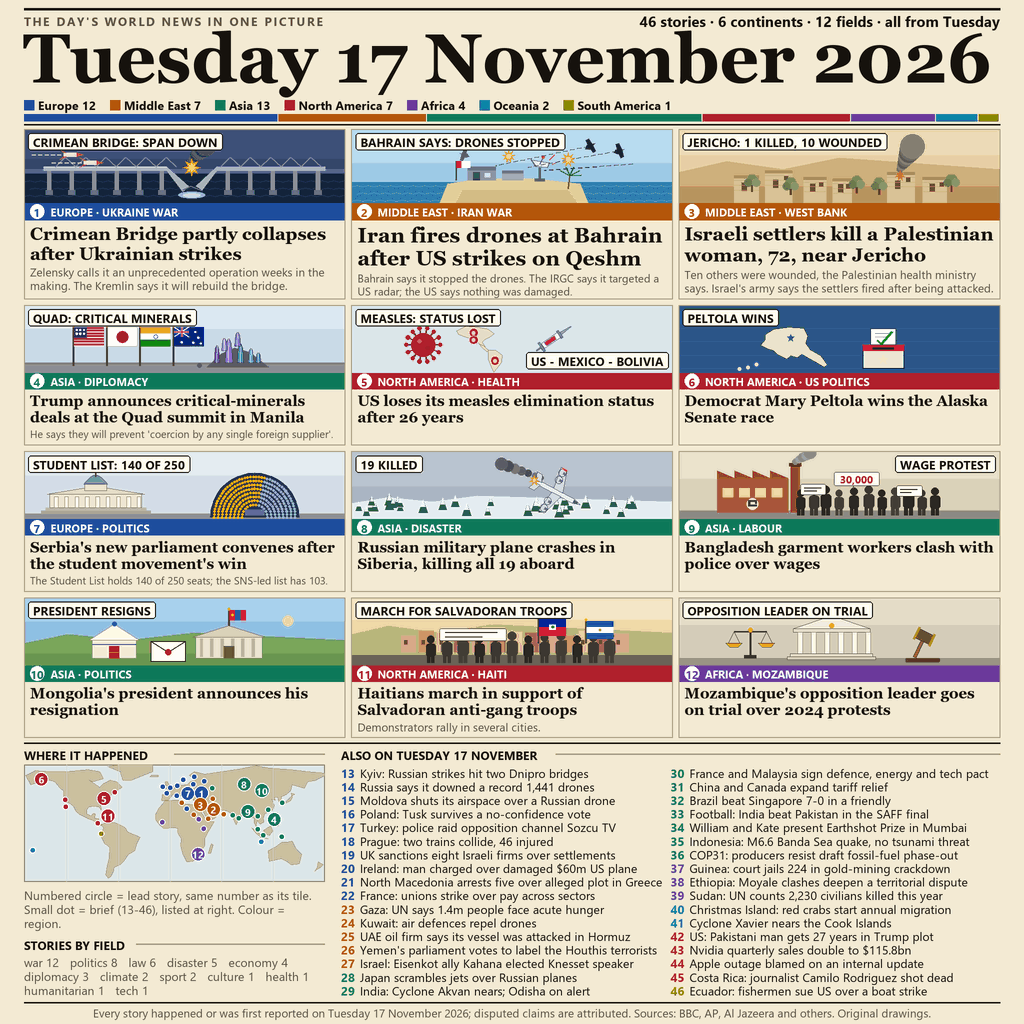
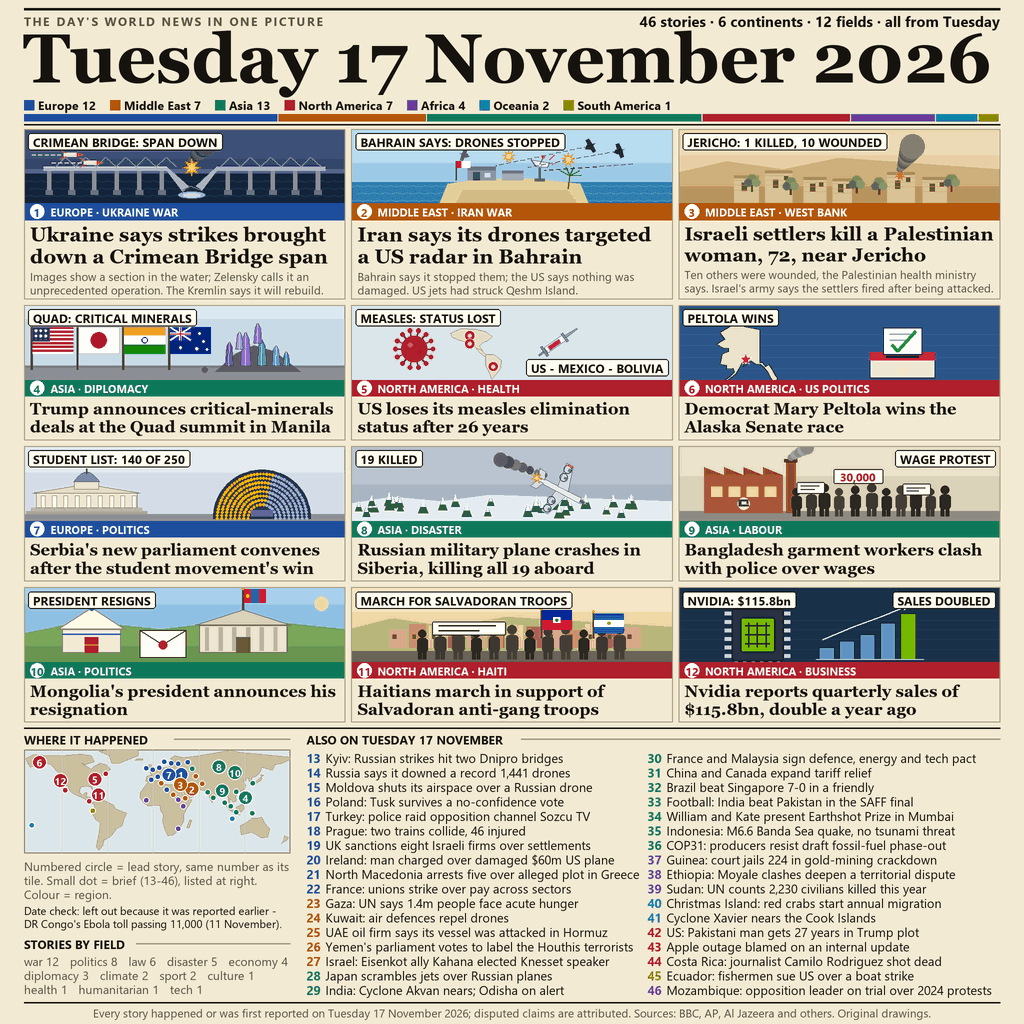
feat(image): add Nvidia chip scene, redraw Alaska map, use dead tile space, add date-check line

Changed region(s): [[0.0, 0.2188, 1.0, 0.9688]]

diff --git a/gen_news.py b/gen_news.py
@@ -324,8 +324,8 @@ def sc_quad(c, W_):
     xs = [cx - 150, cx - 105, cx - 60, cx - 15]
     fl = [f_usa, f_jp, f_in, f_au]
     for x, f in zip(xs, fl):
-        pole(c, x, 36, 90)
-        f(c, x + 1, 38, 40, 26)
+        pole(c, x, 46, 90)
+        f(c, x + 1, 48, 40, 26)
     # ore pile
     cols = ["#6a4aa8", "#8d6ad0", "#4a8fb0", "#5fb1c9", "#a78be0"]
     base = [(cx + 30, 92), (cx + 50, 74), (cx + 68, 66), (cx + 88, 72), (cx + 114, 92)]
@@ -378,28 +378,37 @@ def sc_measles(c, W_):
         c.poly(rot([(sx + x, sy + y) for x, y in pts], sx, sy, -35), col, "#4a5360", 0.6)
 
 
+AK_LL = [(-141, 69.6), (-145, 70.0), (-150, 70.4), (-156.6, 71.3), (-161, 70.3), (-166, 68.8), (-163, 67.0), (-168, 65.6),
+         (-164, 64.5), (-161, 64.4), (-161, 63.4), (-165, 62.5), (-165.5, 61), (-166, 60), (-162, 59.5), (-162, 58.6), (-158, 58.7),
+         (-157, 57.6), (-160, 56.3), (-164.5, 54.7), (-160, 55.7), (-156, 57.2), (-154, 58.5), (-152.5, 60), (-150, 61.2),
+         (-151.5, 59.3), (-149, 60), (-147, 60.8), (-144, 60), (-141, 59.9), (-139, 59.2), (-136.5, 57.5), (-134.5, 55.8),
+         (-133, 54.7), (-131.2, 54.7), (-130, 55.9), (-131.6, 56.8), (-133.6, 58.4), (-135.5, 59.7), (-137.5, 59.1),
+         (-139.5, 60.3), (-141, 60.3)]
+
+
 def sc_alaska(c, W_):
     cx = W_ / 2
-    c.rect(0, 0, W_, 100, "#274a7a")
     c.rect(0, 0, W_, 100, "#2c5588")
-    for r in range(0, 4):
-        c.line([(0, 40 + r * 18), (W_, 40 + r * 18)], "#3a669c", 0.5)
-    ak = [(0, 10), (8, 4), (22, 2), (36, 3), (40, 12), (38, 20), (42, 27), (52, 34), (58, 44), (55, 47), (48, 42), (40, 36), (34, 32), (30, 36), (24, 34), (20, 38), (12, 33), (8, 28), (2, 26), (-4, 22), (0, 16)]
-    ox, oy = cx - 100, 36
-    c.poly([(ox + x * 1.45, oy + y * 1.2) for x, y in ak], "#ece3c6", "#14243b", 1)
-    for (x, y) in [(-8, 44), (-16, 47), (-24, 49)]:
-        c.circ(ox + x * 1.45, oy + y * 1.2, 2.4, "#ece3c6")
-    c.poly(star(ox + 24 * 1.45, oy + 14 * 1.2, 5, 2.2, 5), "#2c5588")
-    # ballot box
-    bx = cx + 60
-    c.rect(bx - 28, 62, bx + 28, 94, "#eee8d6", "#10203a", 1.2)
-    c.rect(bx - 28, 62, bx + 28, 70, "#c92a35")
-    c.rect(bx - 14, 66, bx + 14, 68, "#10203a")
-    c.rect(bx - 17, 40, bx + 17, 62, "#ffffff", "#10203a", 1)
-    c.line([(bx - 11, 46), (bx + 11, 46)], "#9aa3b2", 1.2)
-    c.line([(bx - 11, 51), (bx + 5, 51)], "#9aa3b2", 1.2)
-    c.line([(bx - 8, 56), (bx - 3, 61), (bx + 12, 44)], "#14933e", 3.2)
-    c.poly(star(bx, 82, 7, 3, 5), "#f3e9c3")
+    for r in range(0, 5):
+        c.line([(0, 44 + r * 14), (W_, 44 + r * 14)], "#3a669c", 0.6)
+    sc = 4.3
+    ox = cx - 150
+    T = lambda lo, la: (ox + (lo + 168) * 0.46 * sc, 31 + (71.4 - la) * sc)
+    c.poly([T(lo, la) for lo, la in AK_LL], "#ece3c6", "#14243b", 1.1)
+    for lo, la in [(-170, 52.5), (-174, 52.2), (-178, 51.8)]:
+        c.circ(*T(lo + 3, la + 0.2), 1.6, "#ece3c6")
+    ax, ay = T(-149.9, 61.2)
+    c.poly(star(ax, ay, 7.5, 3.2, 5), "#c92a35", "#ffffff", 0.9)
+    # ballot box with a ballot and a check mark
+    bx = cx + 78
+    c.rect(bx - 40, 66, bx + 40, 98, "#eee8d6", "#10203a", 1.4)
+    c.rect(bx - 40, 66, bx + 40, 76, "#c92a35")
+    c.rect(bx - 20, 70, bx + 20, 72.5, "#10203a")
+    c.rect(bx - 24, 36, bx + 24, 69, "#ffffff", "#10203a", 1.2)
+    c.line([(bx - 16, 44), (bx + 16, 44)], "#9aa3b2", 1.6)
+    c.line([(bx - 16, 51), (bx + 6, 51)], "#9aa3b2", 1.6)
+    c.line([(bx - 13, 57), (bx - 6, 64.5), (bx + 16, 40)], "#14933e", 4.4)
+    c.poly(star(bx, 88, 8, 3.4, 5), "#f3e9c3")
 
 
 def sc_serbia(c, W_):
@@ -583,38 +592,37 @@ def sc_haiti(c, W_):
     f_sv(c, cx + 101, 40, 36, 24)
 
 
-def sc_court(c, W_):
+def sc_nvidia(c, W_):
     cx = W_ / 2
-    c.rect(0, 0, W_, 100, "#d5cdbb")
-    c.rect(0, 0, W_, 45, "#e3dccb")
-    c.rect(0, 90, W_, 100, "#9a9484")
-    bx = cx - 10
-    # courthouse
-    c.poly([(bx - 52, 50), (bx, 33), (bx + 52, 50)], "#f1ece0", "#5a5546", 1)
-    c.rect(bx - 52, 50, bx + 52, 55, "#e4ddcc", "#5a5546", 0.8)
+    c.rect(0, 0, W_, 100, "#15293d")
+    c.rect(0, 0, W_, 100, "#183148")
+    for r in range(5):
+        c.line([(0, 48 + r * 12), (W_, 48 + r * 12)], "#24435f", 0.6)
+    # chip (left): package, pins, green die
+    chx, chy, hs = cx - 100, 66, 32
     for i in range(6):
-        x = bx - 46 + i * 18.4
-        c.rect(x, 55, x + 7, 84, "#f7f3e8", "#8a8470", 0.6)
-    c.rect(bx - 56, 84, bx + 56, 88, "#e4ddcc", "#5a5546", 0.8)
-    c.rect(bx - 60, 88, bx + 60, 92, "#d7d0be", "#5a5546", 0.8)
-    c.circ(bx, 46, 3.5, "#d9b43a")
-    # scales (left)
-    sx = cx - 120
-    c.rect(sx - 1, 52, sx + 1, 86, "#3a342a")
-    c.rect(sx - 8, 86, sx + 8, 90, "#3a342a")
-    c.line([(sx - 22, 54), (sx + 22, 54)], "#3a342a", 2)
-    for dx in (-22, 22):
-        c.line([(sx + dx, 54), (sx + dx - 8, 70)], "#3a342a", 0.8)
-        c.line([(sx + dx, 54), (sx + dx + 8, 70)], "#3a342a", 0.8)
-        c.poly([(sx + dx - 11, 70), (sx + dx + 11, 70), (sx + dx + 6, 75), (sx + dx - 6, 75)], "#d9b43a", "#3a342a", 0.8)
-    c.circ(sx, 52, 3, "#d9b43a")
-    # gavel (right)
-    gx, gy = cx + 112, 78
-    c.rrect(gx - 22, 90, gx + 24, 95, 1.5, "#5e3d22")
-    c.poly(rot([(gx - 14, gy - 24), (gx + 6, gy - 24), (gx + 6, gy - 10), (gx - 14, gy - 10)], gx, gy, 25), "#7a4e2a", "#3a2412", 0.8)
-    c.poly(rot([(gx - 6, gy - 10), (gx - 2, gy - 10), (gx - 2, gy + 14), (gx - 6, gy + 14)], gx, gy, 25), "#9a6a3a", "#3a2412", 0.8)
-    c.poly(rot([(gx - 17, gy - 26), (gx - 14, gy - 26), (gx - 14, gy - 8), (gx - 17, gy - 8)], gx, gy, 25), "#b8892e")
-    c.poly(rot([(gx + 6, gy - 26), (gx + 9, gy - 26), (gx + 9, gy - 8), (gx + 6, gy - 8)], gx, gy, 25), "#b8892e")
+        o = -26 + i * 10.4
+        c.rect(chx + o - 2, chy - hs - 8, chx + o + 2, chy - hs, "#c9ced6")
+        c.rect(chx + o - 2, chy + hs, chx + o + 2, chy + hs + 8, "#c9ced6")
+        c.rect(chx - hs - 8, chy + o - 2, chx - hs, chy + o + 2, "#c9ced6")
+        c.rect(chx + hs, chy + o - 2, chx + hs + 8, chy + o + 2, "#c9ced6")
+    c.rrect(chx - hs, chy - hs, chx + hs, chy + hs, 4, "#2b3340", "#0c121a", 1.4)
+    c.rrect(chx - 21, chy - 21, chx + 21, chy + 21, 3, "#76b900", "#0c121a", 1.2)
+    for i in (-1, 0, 1):
+        c.line([(chx - 15, chy + i * 11), (chx + 15, chy + i * 11)], "#1d3a00", 1.8)
+        c.line([(chx + i * 11, chy - 15), (chx + i * 11, chy + 15)], "#1d3a00", 1.8)
+    # rising bars (right)
+    base = 96
+    hts = [14, 22, 30, 44, 56]
+    for i, h_ in enumerate(hts):
+        x0 = cx - 24 + i * 25
+        c.rect(x0, base - h_, x0 + 18, base, "#76b900" if i == 4 else "#5f93c4", "#0c121a", 0.9)
+    c.line([(cx - 20, base - 24), (cx + 18, base - 40), (cx + 52, base - 52), (cx + 86, base - 66)], "#ffffff", 1.8)
+    c.poly(rot([(cx + 92, base - 69), (cx + 78, base - 73), (cx + 80, base - 60)], cx + 86, base - 66, 0), "#ffffff")
+    c.line([(cx - 28, base), (cx + 104, base)], "#c9ced6", 1.4)
+
+
+ZOOM = {4: 1.25, 10: 1.2}
 
 
 # (scene fn, plate1, plate1 pos, plate2, plate2 pos)
@@ -630,7 +638,7 @@ SCENES = {
     9: (sc_bangladesh, "WAGE PROTEST", "tr", None, None),
     10: (sc_mongolia, "PRESIDENT RESIGNS", "tl", None, None),
     11: (sc_haiti, "MARCH FOR SALVADORAN TROOPS", "tl", None, None),
-    12: (sc_court, "OPPOSITION LEADER ON TRIAL", "tl", None, None),
+    12: (sc_nvidia, "NVIDIA: $115.8bn", "tl", "SALES DOUBLED", "tr"),
 }
 
 
@@ -650,9 +658,10 @@ def draw_plate(im, w, h, text, pos, px):
 def make_panel(story, w, h, k_plate_px):
     im = Image.new("RGB", (round(w * S), round(h * S)), "#ffffff")
     k = h / 92.0
-    c = Cv(im, k, 0, -8 * k)
+    z = ZOOM.get(story["id"], 1.0)
+    c = Cv(im, k * z, 0, h - 100 * k * z)
     fn, p1, pos1, p2, pos2 = SCENES[story["id"]]
-    fn(c, w / k)
+    fn(c, w / (k * z))
     draw_plate(im, w, h, p1, pos1, k_plate_px)
     if p2:
         draw_plate(im, w, h, p2, pos2, k_plate_px)
@@ -810,13 +819,12 @@ def render():
     put("footer", foot, "s", fpx, W / 2, H - 19, "ma", (M, H - 22, W - M, H))
 
     # ---- bottom band geometry: map + field list (left), briefs in two columns (right)
-    BPX = 12
-    ROWH = 13.6
+    BPX = 12.5
+    ROWH = 14.5
     nrows = (len(briefs) + 1) // 2
-    maxw = max(tw("s", BPX, b_["head"]) for b_ in briefs)
-    colw = 19 + maxw + 8
-    map_w = CW - 2 * colw - 16
-    assert map_w >= 280, ("map too small", map_w)
+    colws = [19 + max(tw("s", BPX, b_["head"]) for b_ in briefs[k * nrows:(k + 1) * nrows]) + 8 for k in range(2)]
+    map_w = CW - sum(colws) - 16
+    assert map_w >= 240, ("map too small", map_w)
     band_h = 18 + nrows * ROWH + 4
     band_top = H - 24 - band_h
     c.rect(M, band_top - 4, W - M, band_top - 3, INK)
@@ -840,7 +848,21 @@ def render():
         tile = (x0, y0, x0 + tw_, y0 + th)
         # panel
         SH = 17 if big else 16
-        ph = 74 if big else 68
+        inner = tw_ - 12
+        if big:
+            try:
+                hpx, hlines = fit_head(st["head"], inner, [22, 21, 20, 19, 18, 17.5, 17], 2)
+            except AssertionError:
+                hpx, hlines = fit_head(st["head"], inner, [19, 18, 17.5, 17], 3)
+            ph = 74
+        else:
+            hpx, hlines = fit_head(st["head"], inner, [16.5, 16, 15.5, 15], 2)
+            hb = len(hlines) * hpx * 1.1 + 1.5
+            room = th - SH - 3 - hb - 2.5 - 66          # keep >= 66 px of picture
+            sp, slines = fit_sub(st["sub"], inner, [11.5, 11, 10.5], room)
+            used = len(slines) * sp * 1.17
+            ph = int(th - SH - 3 - hb - 2.5 - used)
+            ph = min(ph, 92)
         pimg = make_panel(st, round(tw_), ph, 12)
         im.paste(pimg, (round(x0 * S), round(y0 * S)))
         c.rect(x0, y0 + ph, x0 + tw_, y0 + ph + SH, reg)
@@ -855,21 +877,14 @@ def render():
         put(f"label {st['id']}", lab, "sb", 11, x0 + 6 + 2 * br + 6, y0 + ph + SH / 2 + 0.5, "lm", tile)
         ty_ = y0 + ph + SH + 3
         # headline (whole, wrapped by words, never truncated)
-        inner = tw_ - 12
-        if big:
-            try:
-                hpx, hlines = fit_head(st["head"], inner, [21, 20, 19, 18, 17.5, 17], 2)
-            except AssertionError:
-                hpx, hlines = fit_head(st["head"], inner, [19, 18, 17.5, 17], 3)
-        else:
-            hpx, hlines = fit_head(st["head"], inner, [15, 14.5, 14], 2)
         lh = hpx * 1.1
         put.fill = INK
         for j, ln in enumerate(hlines):
             put(f"head {st['id']}.{j}", ln, "gb", hpx, x0 + 6, ty_ + j * lh, "la", tile)
         ty_ += len(hlines) * lh + 1.5
         # sub: whole text, else leading whole sentences, else dropped (never an ellipsis, never < 10.5 px)
-        sp, slines = fit_sub(st["sub"], inner, [11.5, 11, 10.5], (y0 + th - 2.5) - ty_)
+        if big:
+            sp, slines = fit_sub(st["sub"], inner, [11.5, 11, 10.5], (y0 + th - 2.5) - ty_)
         put.fill = SOFT
         for j, ln in enumerate(slines):
             put(f"sub {st['id']}.{j}", ln, "s", sp, x0 + 6, ty_ + j * sp * 1.17, "la", tile)
@@ -922,7 +937,13 @@ def render():
     notes = wrap(f"Numbered circle = lead story, same number as its tile. Small dot = brief ({n1}-{n2}), listed at right. Colour = region.", "s", 12, map_w)
     for j, ln in enumerate(notes):
         put(f"map note {j}", ln, "s", 12, M, ky + j * 14, "la", (M, ky - 2, M + map_w + 2, ky + 14 * (j + 1) + 2))
-    fy = ky + 14 * len(notes) + 8
+    dpx = 11
+    dnote = wrap("Date check: left out because it was reported earlier - DR Congo's Ebola toll passing 11,000 (11 November).", "s", dpx, map_w)
+    dy0 = ky + 14 * len(notes) + 3
+    put.fill = INK
+    for j, ln in enumerate(dnote):
+        put(f"date check {j}", ln, "sb" if j == 0 and False else "s", dpx, M, dy0 + j * 13, "la", (M, dy0 - 2, M + map_w + 2, dy0 + 13 * (j + 1) + 2))
+    fy = dy0 + 13 * len(dnote) + 7
     # fields tally
     fcount = {}
     for r_ in rows:
@@ -945,7 +966,8 @@ def render():
     put("briefs title", "ALSO ON TUESDAY 17 NOVEMBER", "sb", 12, rx, band_top, "la", (rx, band_top - 3, W - M, band_top + 16))
     c.rect(rx + 215, band_top + 7, W - M, band_top + 8, "#a99d82")
     for i, b in enumerate(briefs):
-        colx = rx + (i // nrows) * colw
+        colx = rx + (i // nrows) * colws[0]
+        colw = colws[i // nrows]
         yy = band_top + 18 + (i % nrows) * ROWH
         put.fill = REG[b["region"]]
         put(f"brief num {b['id']}", str(b["id"]), "sb", BPX, colx, yy, "la", (colx, yy - 1.5, colx + colw, yy + ROWH + 3.5))
